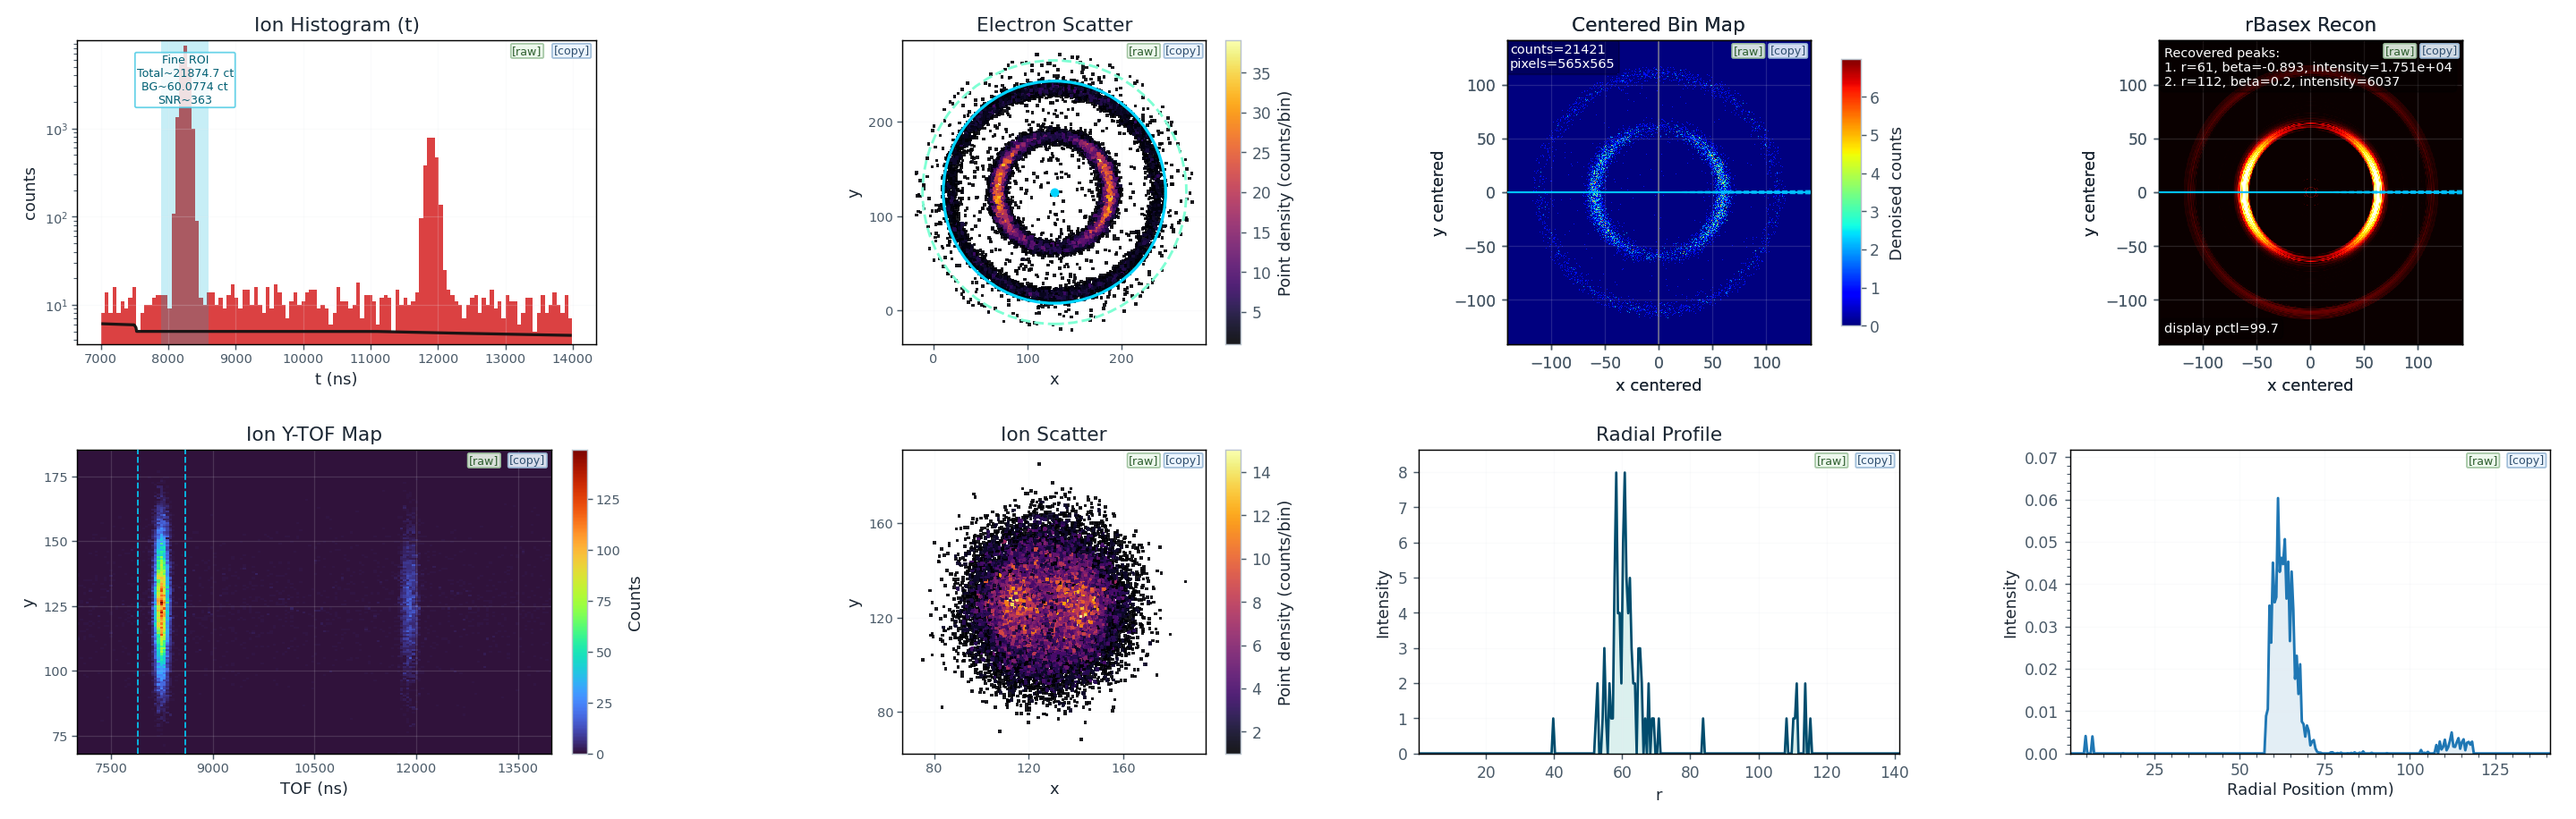
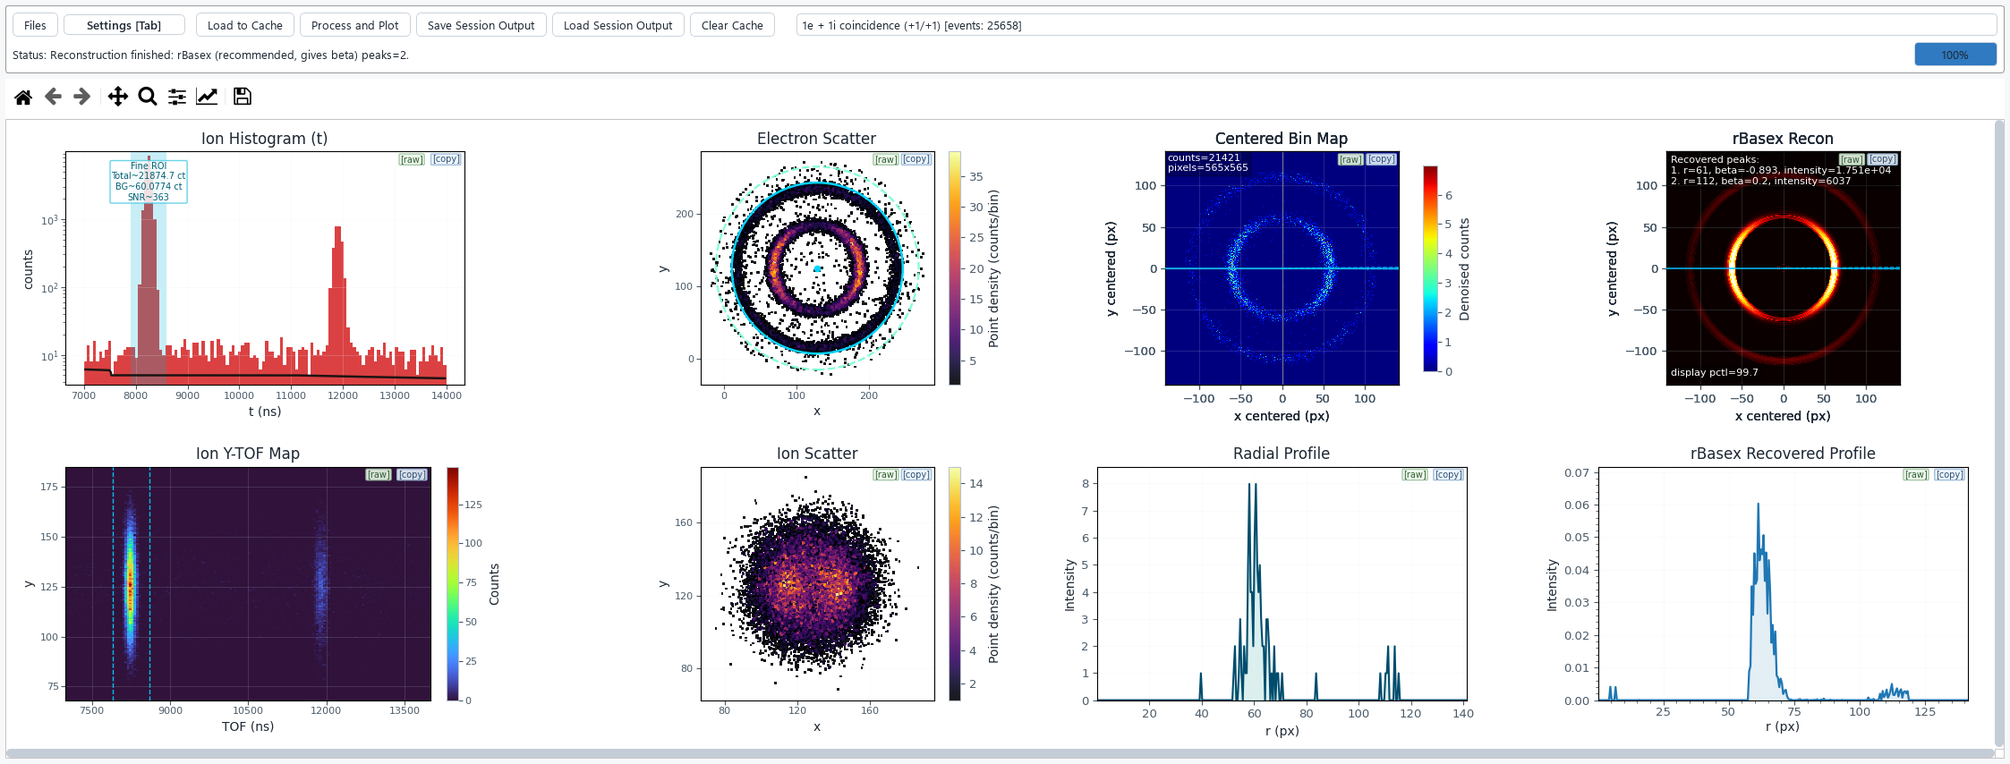
Physical-unit axis labels; regenerate all screenshots on current build
Radial-profile and image-panel axes now name their units: r (px) on both
radial profiles, x/y centered (px) on the Centered Bin Map and the
reconstruction image (and the exported recon PNG); the energy modes
already carried units (Kinetic/Binding Energy (eV)) and are unchanged.
Also corrects the raw-mode label that claimed mm while the axis is
binned pixels. All seven repository screenshots (README main + user
guide steps) regenerated on the current build - rBasex Recovered
Profile title, Fusion theme, current tab layout, golden-matched numbers
- with programmatic assertions on titles, labels, sizes, and pixel
variance. Both environments pass all suites; goldens byte-unchanged;
drag ghost check PASS.

diff --git a/VMI_workflow.py b/VMI_workflow.py
@@ -903,7 +903,7 @@ class MainWindow(QMainWindow):
         self.rbasex_profile_last_y_measure = np.zeros(0, dtype=np.float64)
         self.rbasex_profile_last_y_plot = np.zeros(0, dtype=np.float64)
         self.rbasex_profile_last_bin_counts = np.zeros(0, dtype=np.int64)
-        self.rbasex_profile_last_axis_label = "r"
+        self.rbasex_profile_last_axis_label = "r (px)"
         self.rbasex_profile_last_beta = np.zeros(0, dtype=np.float64)
         self.rbasex_profile_selected_xrange: tuple[float, float] | None = None
         self.rbasex_profile_selected_stats: dict[str, float | int | tuple[float, float]] | None = None
@@ -1811,7 +1811,7 @@ class MainWindow(QMainWindow):
 
         recon_profile_axes_grid.addWidget(QLabel("X axis"), 2, 0)
         self.rbasex_profile_xmode_combo = QComboBox()
-        self.rbasex_profile_xmode_combo.addItem("Radial Position (mm)", "r")
+        self.rbasex_profile_xmode_combo.addItem("Radial Position (px)", "r")
         self.rbasex_profile_xmode_combo.addItem("Kinetic Energy (eV)", "ke")
         self.rbasex_profile_xmode_combo.addItem("Binding Energy (eV)", "be")
         self.rbasex_profile_xmode_combo.addItem("Both (top KE / bottom BE)", "both")
@@ -7550,7 +7550,7 @@ class MainWindow(QMainWindow):
             return "Kinetic Energy (eV)"
         if mode_now == "be":
             return "Binding Energy (eV)"
-        return "Radial Position (mm)"
+        return "r (px)"
 
     def _update_rbasex_profile_dual_axis_swap_affordance(self) -> None:
         """Enable the top/bottom swap checkbox only when dual-energy mode is active."""
@@ -8232,7 +8232,9 @@ class MainWindow(QMainWindow):
                     f"{self._format_rbasex_profile_formula_text(mode, c, b, hv)}."
                 )
                 return
-        self._refresh_rbasex_profile_display_settings("rBasex radial x-axis: Radial Position (mm).")
+        self._refresh_rbasex_profile_display_settings(
+            f"rBasex radial x-axis: {self._rbasex_profile_x_axis_label('r')}."
+        )
 
     def _on_rbasex_profile_ke_formula_changed(self) -> None:
         """Apply updated radial-energy formula when the rBasex profile uses an energy axis."""
@@ -11380,7 +11382,7 @@ class MainWindow(QMainWindow):
         self.rbasex_profile_last_y_measure = np.zeros(0, dtype=np.float64)
         self.rbasex_profile_last_y_plot = np.zeros(0, dtype=np.float64)
         self.rbasex_profile_last_bin_counts = np.zeros(0, dtype=np.int64)
-        self.rbasex_profile_last_axis_label = "r"
+        self.rbasex_profile_last_axis_label = "r (px)"
         self.rbasex_profile_last_beta = np.zeros(0, dtype=np.float64)
         self.rbasex_profile_selected_xrange = None
         self.rbasex_profile_selected_stats = None
@@ -12680,8 +12682,8 @@ class MainWindow(QMainWindow):
         ax = fig.add_subplot(111)
         try:
             ax.set_title(title)
-            ax.set_xlabel("x centered")
-            ax.set_ylabel("y centered")
+            ax.set_xlabel("x centered (px)")
+            ax.set_ylabel("y centered (px)")
             if result is None:
                 ax.text(0.5, 0.5, "No reconstruction output", transform=ax.transAxes, ha="center", va="center")
             else:
@@ -22904,7 +22906,7 @@ class MainWindow(QMainWindow):
         integrated = self._radial_profile_is_angular_integrated()
         theta_deg, dtheta_deg = self._get_theta_profile_params()
         ax.set_title("Radial Profile")
-        ax.set_xlabel("r")
+        ax.set_xlabel("r (px)")
         ax.set_ylabel("Intensity")
         use_log_y = self._current_radial_profile_yscale() == "log"
         ax.set_yscale("log" if use_log_y else "linear")
@@ -23037,8 +23039,8 @@ class MainWindow(QMainWindow):
         ax.clear()
         scale_mode = self._current_centered_bin_scale()
         ax.set_title("Centered Bin Map")
-        ax.set_xlabel("x centered")
-        ax.set_ylabel("y centered")
+        ax.set_xlabel("x centered (px)")
+        ax.set_ylabel("y centered (px)")
         ax.grid(alpha=0.15)
         self._enforce_square_axis(ax)
 
@@ -23292,8 +23294,8 @@ class MainWindow(QMainWindow):
             self.rbasex_profile_line_lo = None
             self.rbasex_profile_line_hi = None
         ax.set_title(title)
-        ax.set_xlabel("x centered")
-        ax.set_ylabel("y centered")
+        ax.set_xlabel("x centered (px)")
+        ax.set_ylabel("y centered (px)")
         ax.grid(alpha=0.15)
         self._enforce_square_axis(ax)
         if result is None:
@@ -23612,7 +23614,7 @@ class MainWindow(QMainWindow):
         self.rbasex_profile_last_y_measure = np.zeros(0, dtype=np.float64)
         self.rbasex_profile_last_y_plot = np.zeros(0, dtype=np.float64)
         self.rbasex_profile_last_bin_counts = np.zeros(0, dtype=np.int64)
-        self.rbasex_profile_last_axis_label = "r"
+        self.rbasex_profile_last_axis_label = "r (px)"
         self.rbasex_profile_last_beta = np.zeros(0, dtype=np.float64)
         self.rbasex_profile_selected_stats = None
         integrated = self._radial_profile_is_angular_integrated()

diff --git a/docs/user-guide.md b/docs/user-guide.md
@@ -52,7 +52,7 @@ After **Process and Plot** the main window shows a 2x4 grid of live panels:
 | Row | Panels (left to right) |
 |---|---|
 | Top | **Ion Histogram** — ion TOF (or m/q) histogram with coarse/fine ROI shading, peak markers and the fitted background curve. **Electron Scatter** — raw electron detector positions of the selected coincidences (the Newton spheres), with the ring-selection circle overlay. **Centered Bin Map** — the electron image after recentering and binning, with the outer-ring background density subtracted. **rBasex Recon** — the Abel-inverted image with the recovered-peak annotation. |
-| Bottom | **Ion X/Y-TOF Map** — ion detector coordinate versus TOF density map (the elongated blobs show how the ion position drifts with TOF; this is what the alignment straightens). **Ion Scatter** — raw ion detector positions, with the rectangular ion filter overlay. **Radial Profile** — theta-slice (or angular-integrated) radial profile of the centered image. **Radial Position (mm)** — radial profile of the rBasex reconstruction, optionally on kinetic-/binding-energy axes. |
+| Bottom | **Ion X/Y-TOF Map** — ion detector coordinate versus TOF density map (the elongated blobs show how the ion position drifts with TOF; this is what the alignment straightens). **Ion Scatter** — raw ion detector positions, with the rectangular ion filter overlay. **Radial Profile** — theta-slice (or angular-integrated) radial profile of the centered image (x axis `r (px)`). **Radial Position (px)** — radial profile of the rBasex reconstruction, x axis `r (px)` in the binned-pixel units of the centered map, optionally switched to physical kinetic-/binding-energy axes (eV) via the ke/be conversion on the Reconstruction tab. |
 
 Every panel carries two small buttons in its top-right corner: **[copy]**
 copies the panel image to the clipboard and **[raw]** saves the underlying
@@ -307,7 +307,8 @@ The **Ion Scatter** tab limits which ion events define the coincidences.
   (`removed total` is reported). The **Radial Profile** panel shows the
   theta slice at **Theta (deg)** with width **dTheta (deg)**
   (**Update Theta Profile**; **Profile mode** switches to an
-  angular-integrated 2pi profile, **Radial bin** sets its binning). Dragging
+  angular-integrated 2pi profile, **Radial bin** sets its binning; the x
+  axis is `r (px)`, the binned-pixel radius of the centered map). Dragging
   on the Centered Bin Map or the rBasex panel moves the theta guide line.
   The panel header reports `counts=…  pixels=565x565`.
 
@@ -356,11 +357,13 @@ The **Ion Scatter** tab limits which ion events define the coincidences.
   2. r=112, beta=0.2, intensity=6037
   ```
 
-  `r` is the ring radius in mm (bin size x px), `beta` the anisotropy
-  parameter of that ring, `intensity` its integrated strength. The bottom
+  `r` is the ring radius in px (the binned-pixel x-axis units of the
+  radial profile, `r (px)`), `beta` the anisotropy parameter of that ring,
+  `intensity` its integrated strength. The bottom
   right panel shows the same information as the radial profile; **Profile r
   tags** (Ctrl+click on the profile or type `10, 15.5`), **X axis** switching
-  to **Kinetic Energy (eV)** / **Binding Energy (eV)** via **Energy c**,
+  from `r (px)` to a physical energy axis in meV/eV — **Kinetic Energy (eV)** /
+  **Binding Energy (eV)** — via **Energy c**,
   **Energy b**, **Photon hv**, and **Pick Range on Plot** (drag to integrate
   one x-range) are available for quantitative reading.
 
@@ -412,7 +415,7 @@ The **Ion Scatter** tab limits which ion events define the coincidences.
 | Ion Scatter (with main direction line on) | drag | live rotation preview; commits the angle on release |
 | Centered Bin Map / rBasex Recon | drag | move the theta guide line (updates **Theta (deg)**) |
 | Radial Profile (theta) | click / Ctrl+click | set / add a radius cursor |
-| Radial Position (mm) | Pick Range on Plot, then drag | select the integration range (snaps to bins); Ctrl+click adds r tags |
+| Radial Position (px) | Pick Range on Plot, then drag | select the integration range (snaps to bins); Ctrl+click adds r tags |
 | Any panel | right-click | cancel the active interaction |
 
 ### Wheel, keyboard, panel buttons

diff --git a/ARCHITECTURE.md b/ARCHITECTURE.md
@@ -1229,3 +1229,53 @@ degree=1 plumbing the same way; (e) session save/restore roundtrip of
 `method_params` into a fresh window's widgets plus the tolerant merge
 (partial keys fall back to defaults; legacy-shaped metadata is a no-op).
 All suites green in BOTH envs; goldens byte-unchanged.
+
+### 16s. Physical-unit axis labels + screenshot refresh (2026-09-01)
+
+> User request: the radial-profile panels must name their axis units, and
+> every published screenshot predates the "rBasex Recovered Profile" title
+> (16j-1), the Fusion theme (16k) and the settings-tab reorganization
+> (16j-2/16r) and had to be regenerated from the current build.
+
+**Axis labels.** The radial-profile x axes now name their physical unit.
+The theta-slice Radial Profile of the centered map
+(`_plot_theta_radial_profile_panel`) labels x as `r (px)` (was bare `r`);
+the profile x values are the binned-pixel radius of the centered map.
+The rBasex Recovered Profile label factory `_rbasex_profile_x_axis_label`
+returned the misleading `Radial Position (mm)` for the raw-radius mode
+(`mode="r"`), although `_rbasex_profile_radius_to_display_x` passes pixel
+radii through unchanged in that mode — it now returns `r (px)`. The
+`ke`/`be` modes already carried units (`Kinetic Energy (eV)` /
+`Binding Energy (eV)`) and are unchanged; `both` delegates to the primary
+energy mode. For consistency the raw-mode naming was fixed wherever it
+surfaced: the X-axis mode combo item (`Radial Position (mm)` ->
+`Radial Position (px)`), the hard-coded mode status string, and the
+`rbasex_profile_last_axis_label` reset defaults (used by the range-integration
+status text/overlay, previously `r`/`Radial Position (mm)`). The reconstruction
+image panel (`_plot_reconstruction_panel`), the Centered Bin Map
+(`_plot_centered_bin_image`) and the exported reconstruction PNG
+(`_save_reconstruction_image`) label their axes `x centered (px)` /
+`y centered (px)` (was `x centered` / `y centered`); their extents are the
+binned-pixel coordinates of the centered map. No numerics touched: labels
+and status strings only, goldens byte-unchanged.
+
+**Screenshot refresh.** All seven published screenshots were regenerated
+offscreen from the current build with a scratch driver mirroring
+tests/test_smoke.py techniques (async workers pumped via processEvents,
+monkeypatched QMessageBox, cwd in a TEMP dir, `apply_application_theme`
+for the Fusion look, `QT_QPA_FONTDIR=C:\Windows\Fonts` so widget text
+renders offscreen). `docs/screenshot_main.png` is the post-reconstruction
+dashboard `canvas.grab()` at the canonical 2214x705; the five step grabs in
+docs/img are full-window grabs at the dashboard window size that exactly
+fits the canonical canvas (2246x854; the old 2878x916 shots predate the
+16j-3 fixed-size canvas and relied on the then-stretched canvas);
+`step3b_settings_tray.png` is a 1720x1060 window grab with the Settings
+tray open on the Electron Scatter tab. The driver asserts per shot:
+dimensions, file size and pixel variance (PIL), plus programmatically the
+`rBasex Recovered Profile` title, the new `r (px)` / `x centered (px)`
+labels, the golden center estimate and rBasex peaks. Note (observed, not
+changed): the 16j-3 resize refit derives the preferred canvas size from
+`figure.get_figwidth()`, which matplotlib keeps synced to the canvas, so
+successive window resizes ratchet the canvas down to the 1480x700 floor;
+the screenshot driver restores the design figure size
+(27.0x8.6 in) before each grab to pin the canonical 2214x705 dashboard.
